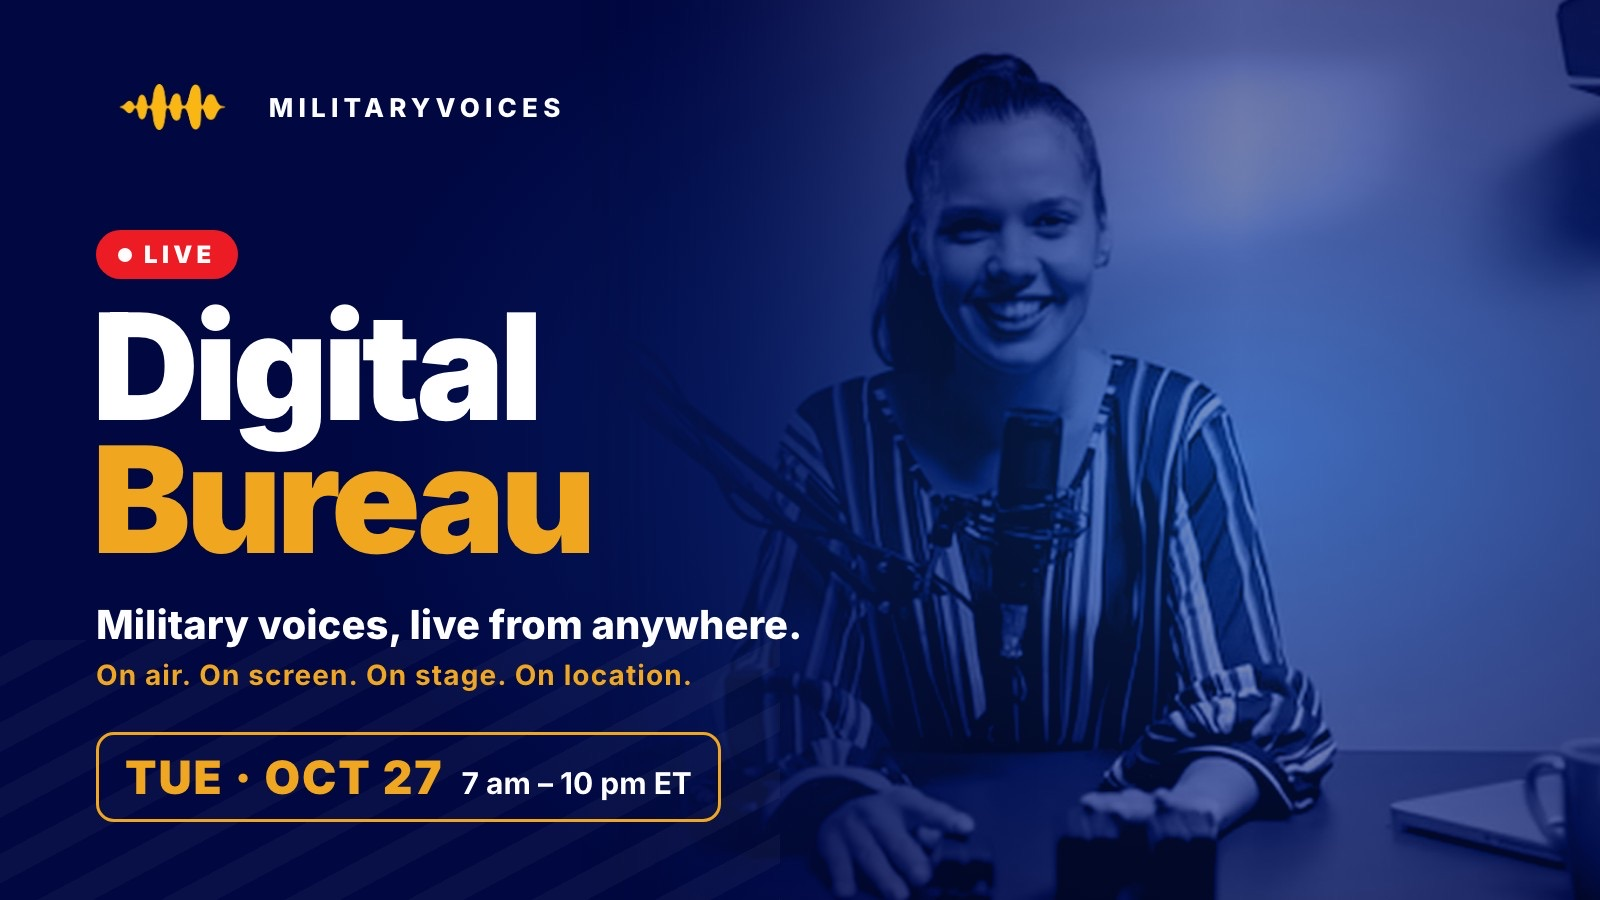
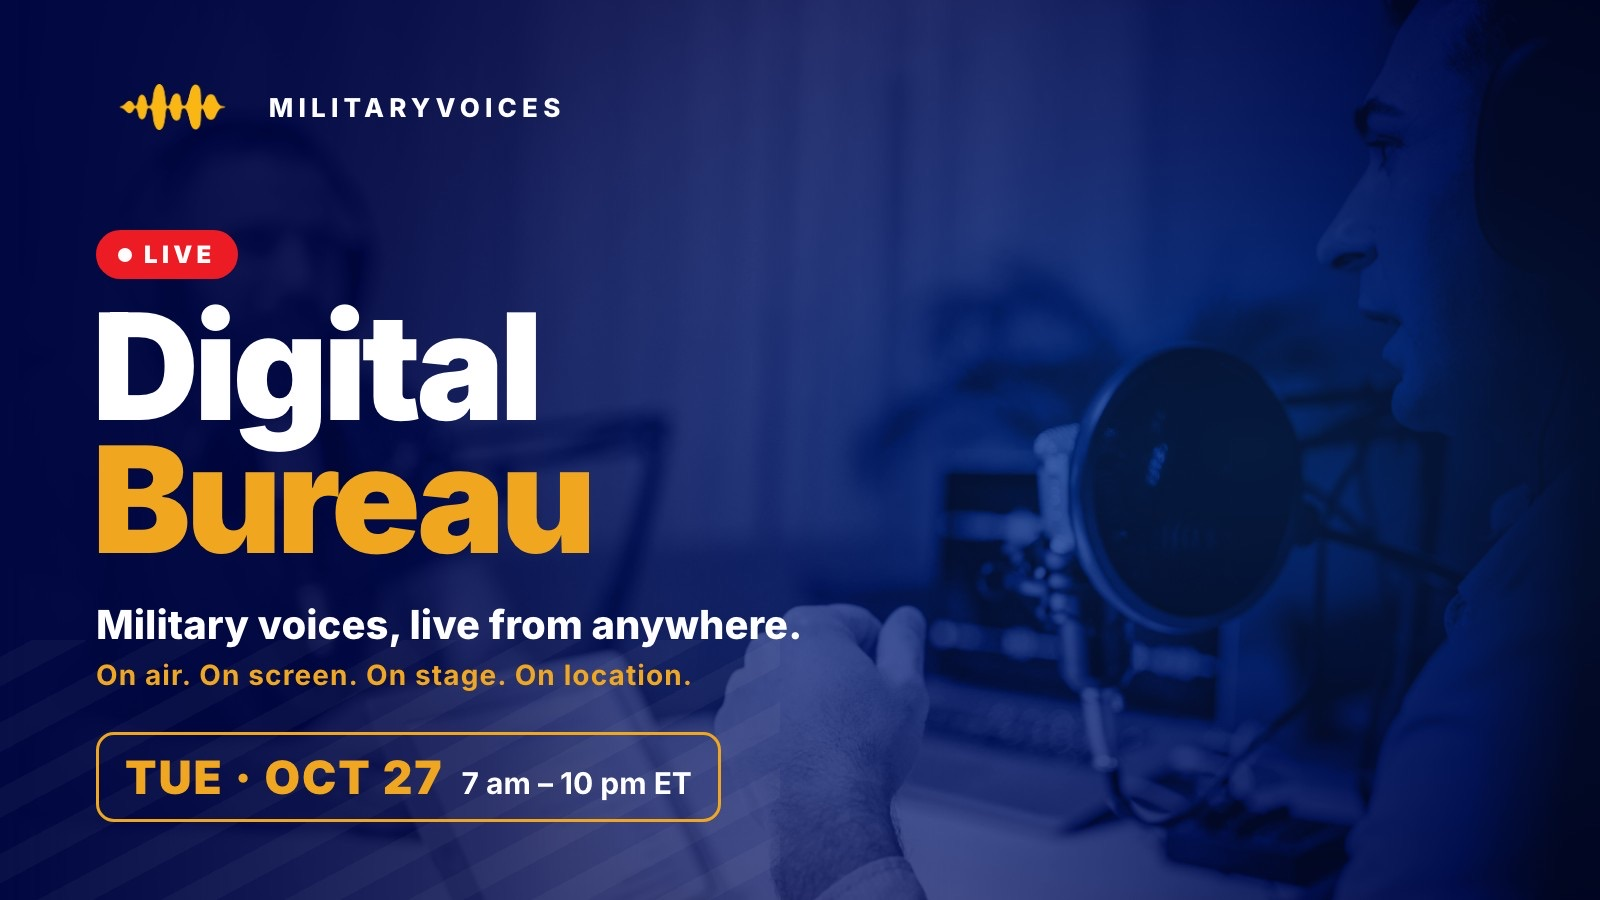
Digital Bureau artwork and page hero: hosts on the mic in a studio (mirrored, faded) as the background; Rob Couture sample share graphics (mockup, sample time)

diff --git a/creative/digital-experience/email.html b/creative/digital-experience/email.html
@@ -24,7 +24,7 @@
   .chip b { font-size: 46px; font-weight: 900; color: #F0A71F; letter-spacing: .04em; }
   .chip span { font-size: 30px; font-weight: 700; color: #fff; }
   .sub2 { position: absolute; left: 80px; top: 462px; font-size: 20px; font-weight: 700; letter-spacing: .04em; color: #F0A71F; }
-  .photo { position: absolute; top: 0; bottom: 0; right: 0; width: 64%; background-size: cover; background-position: center 30%; filter: grayscale(1) contrast(1.1) brightness(1.05); opacity: .5; mix-blend-mode: luminosity;  -webkit-mask-image: linear-gradient(90deg, transparent 0%, #000 38%); mask-image: linear-gradient(90deg, transparent 0%, #000 38%); }
+  .photo { position: absolute; inset: 0; background-size: cover; background-position: center 35%; transform: scaleX(-1); filter: grayscale(1) contrast(1.1) brightness(1.1); opacity: .55; mix-blend-mode: luminosity; -webkit-mask-image: linear-gradient(270deg, transparent 0%, rgba(0,0,0,.35) 30%, #000 60%); mask-image: linear-gradient(270deg, transparent 0%, rgba(0,0,0,.35) 30%, #000 60%); }
   .photo::after { content: ""; position: absolute; inset: 0; background: linear-gradient(90deg, #000741 0%, rgba(0,7,65,.55) 30%, rgba(0,7,65,.15) 65%, rgba(0,7,65,.35) 100%); }
   #rings.off { display: none; }
   .sub3 { position: absolute; left: 80px; top: 500px; font-size: 18px; font-weight: 600; color: rgba(255,255,255,.8); }
@@ -43,7 +43,7 @@
   <div class="chip" id="chip"><b id="chipB">OCT 26 – 30</b><span id="chipS">7 am – 10 pm ET · free beta</span></div>
 </div>
 <script>
-  const bg = new URLSearchParams(location.search).get("bg") || "bg-host.jpg"; if (bg) { document.getElementById("photo").style.backgroundImage = `url(${bg})`; document.getElementById("rings").classList.add("off"); }
+  const bg = new URLSearchParams(location.search).get("bg") || "bg-onair.jpg"; if (bg) { document.getElementById("photo").style.backgroundImage = `url(${bg})`; document.getElementById("rings").classList.add("off"); }
   const q = new URLSearchParams(location.search);
   if (q.get("b")) document.getElementById("chipB").textContent = q.get("b");
   if (q.has("s")) document.getElementById("chipS").textContent = q.get("s");

diff --git a/creative/digital-experience/art.html b/creative/digital-experience/art.html
@@ -24,7 +24,7 @@
   .chip b { font-size: 46px; font-weight: 900; color: #F0A71F; letter-spacing: .04em; }
   .chip span { font-size: 30px; font-weight: 700; color: #fff; }
   .sub2 { position: absolute; left: 96px; top: 658px; font-size: 28px; font-weight: 700; letter-spacing: .04em; color: #F0A71F; }
-  .photo { position: absolute; top: 0; bottom: 0; right: 0; width: 64%; background-size: cover; background-position: center 30%; filter: grayscale(1) contrast(1.1) brightness(1.05); opacity: .5; mix-blend-mode: luminosity;  -webkit-mask-image: linear-gradient(90deg, transparent 0%, #000 38%); mask-image: linear-gradient(90deg, transparent 0%, #000 38%); }
+  .photo { position: absolute; inset: 0; background-size: cover; background-position: center 35%; transform: scaleX(-1); filter: grayscale(1) contrast(1.1) brightness(1.1); opacity: .55; mix-blend-mode: luminosity; -webkit-mask-image: linear-gradient(270deg, transparent 0%, rgba(0,0,0,.35) 30%, #000 60%); mask-image: linear-gradient(270deg, transparent 0%, rgba(0,0,0,.35) 30%, #000 60%); }
   .photo::after { content: ""; position: absolute; inset: 0; background: linear-gradient(90deg, #000741 0%, rgba(0,7,65,.55) 30%, rgba(0,7,65,.15) 65%, rgba(0,7,65,.35) 100%); }
   #rings.off { display: none; }
 </style></head>
@@ -41,7 +41,7 @@
   <div class="chip" id="chip"><b id="chipB">OCT 26 – 30</b><span id="chipS">7 am – 10 pm ET · free beta</span></div>
 </div>
 <script>
-  const bg = new URLSearchParams(location.search).get("bg") || "bg-host.jpg"; if (bg) { document.getElementById("photo").style.backgroundImage = `url(${bg})`; document.getElementById("rings").classList.add("off"); }
+  const bg = new URLSearchParams(location.search).get("bg") || "bg-onair.jpg"; if (bg) { document.getElementById("photo").style.backgroundImage = `url(${bg})`; document.getElementById("rings").classList.add("off"); }
   const q = new URLSearchParams(location.search);
   if (q.get("b")) document.getElementById("chipB").textContent = q.get("b");
   if (q.has("s")) document.getElementById("chipS").textContent = q.get("s");

diff --git a/client/src/pages/DigitalExperience.tsx b/client/src/pages/DigitalExperience.tsx
@@ -203,8 +203,8 @@ export default function DigitalExperience() {
       {/* The hero is the artwork itself (client/public/dx), built in the page rather than shown as a picture in a box:
           the name once, big, with the broadcast mic beside it (Andrew, 20 Oct). */}
       <section className="relative overflow-hidden bg-[#000741] text-white" style={{ background: "radial-gradient(ellipse 70% 120% at 82% 50%, #0d3a8a 0%, #05175a 40%, #000741 75%)" }}>
-        {/* A host on the mic, faded in on the right (Andrew, 20 Oct): it's a broadcast, not an in-person event. */}
-        <div aria-hidden="true" className="pointer-events-none absolute inset-y-0 right-0 hidden w-[62%] bg-cover opacity-50 mix-blend-luminosity grayscale md:block" style={{ backgroundImage: "url(/dx/host.jpg)", backgroundPosition: "center 30%", WebkitMaskImage: "linear-gradient(90deg, transparent 0%, #000 38%)", maskImage: "linear-gradient(90deg, transparent 0%, #000 38%)" }} />
+        {/* Hosts on the mic in a studio, faded in (Andrew, 20 Oct): it's a broadcast, not an in-person event. Mirrored so the host sits on the right. */}
+        <div aria-hidden="true" className="pointer-events-none absolute inset-0 hidden bg-cover opacity-55 mix-blend-luminosity grayscale md:block" style={{ backgroundImage: "url(/dx/onair.jpg)", backgroundPosition: "center 35%", transform: "scaleX(-1)", WebkitMaskImage: "linear-gradient(270deg, transparent 0%, rgba(0,0,0,.35) 30%, #000 60%)", maskImage: "linear-gradient(270deg, transparent 0%, rgba(0,0,0,.35) 30%, #000 60%)" }} />
         <div aria-hidden="true" className="pointer-events-none absolute -bottom-40 -left-32 h-[26rem] w-[56rem] opacity-60" style={{ background: "repeating-linear-gradient(-28deg, rgba(255,255,255,.035) 0 26px, transparent 26px 58px)" }} />
         <div className="relative mx-auto grid max-w-6xl items-center gap-10 px-4 py-12 sm:px-6 sm:py-16 lg:grid-cols-[1.35fr_1fr]">
           <div>
